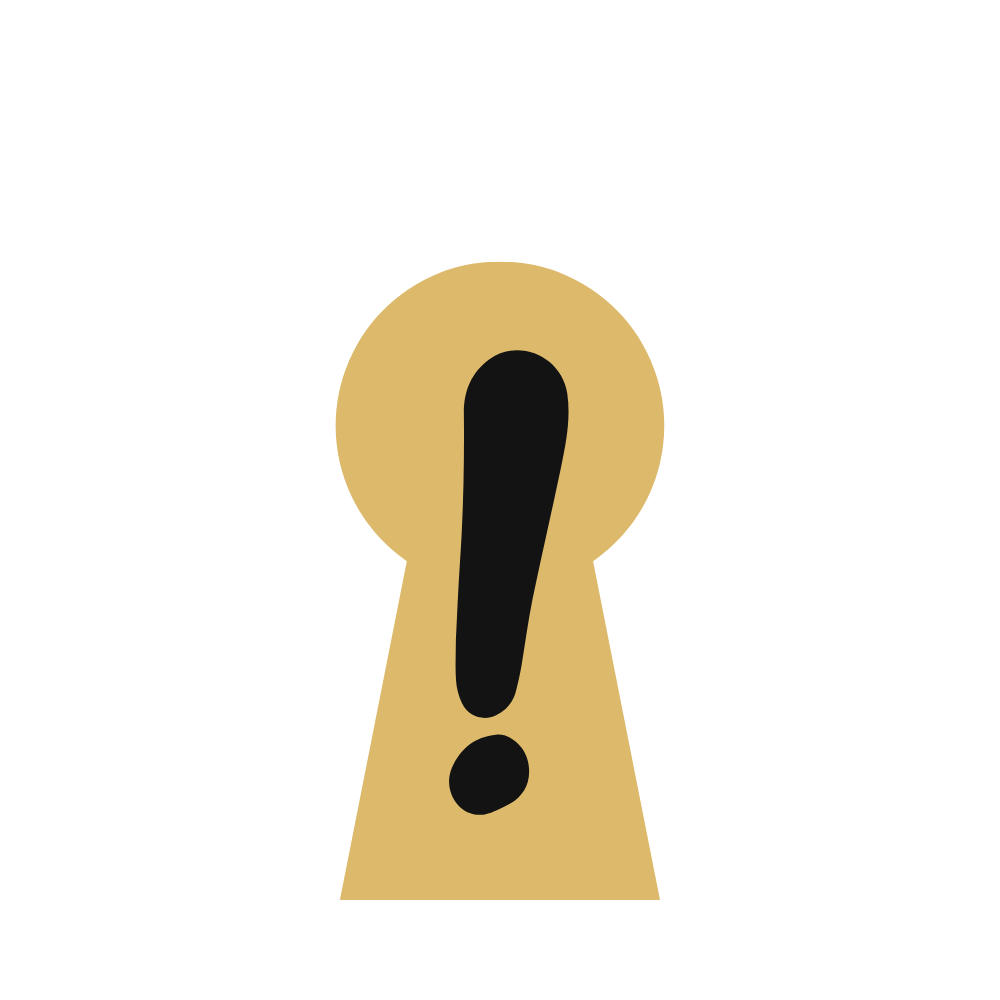
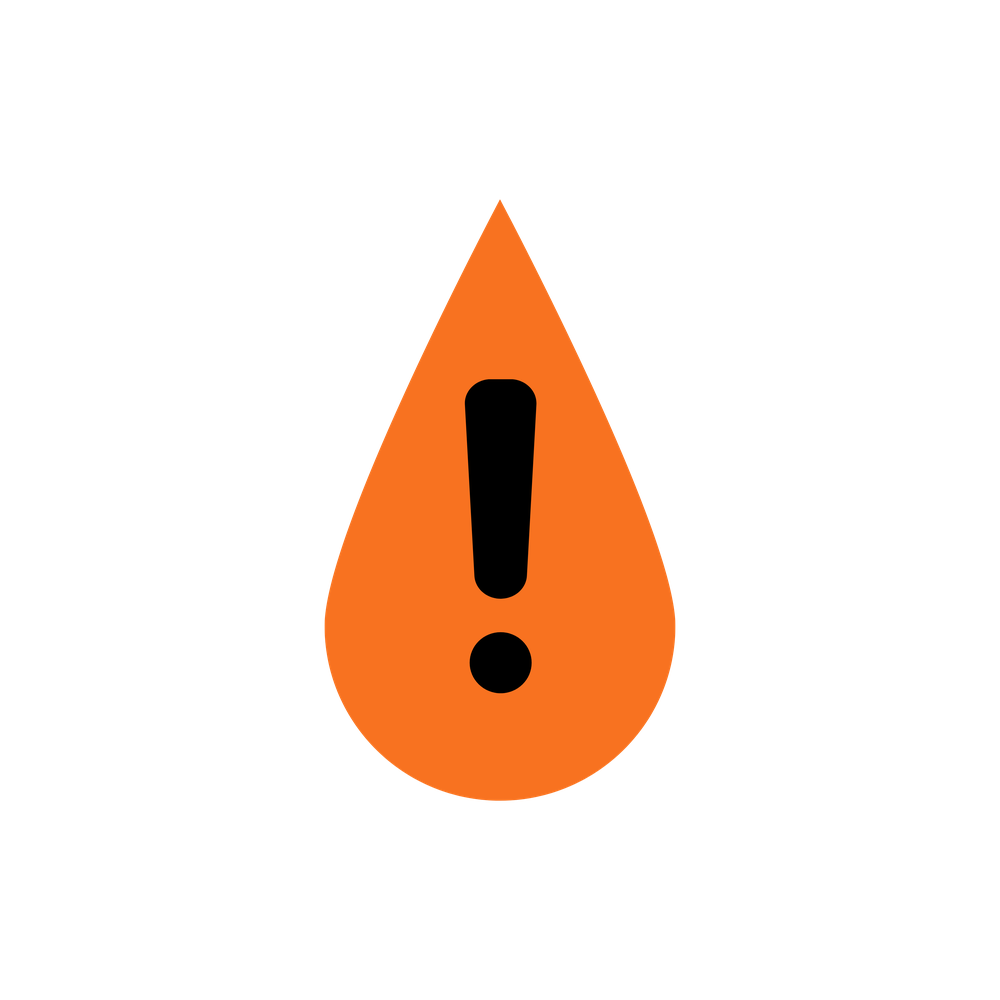
Replace all Grammar Symbol artwork with teacher's new design
Swapped all 9 PNGs in public/literacy/grammar-symbols/ (same filenames,
so no imageUrl changes needed) and re-measured every color pixel-exact
from the new set in montessoriGrammar.ts, the single source of truth
every rendering site (tray, canvas, Symbol Sentences, Sentence Formula
blank coloring, hover tooltip) reads from.

Claude-Session: https://claude.ai/code/session_01XSgnR3ix26uWZTtb28RFWN

Changed region(s): [[0.31, 0.186, 0.682, 0.899]]

diff --git a/src/lib/montessoriGrammar.ts b/src/lib/montessoriGrammar.ts
@@ -2,18 +2,19 @@
 // reference images: a decision-tree sentence builder using the real
 // Montessori grammar-symbol shapes/colors (already read from her own
 // reference sheets and logged in docs/DEVELOPMENT_PLAN.md's Literacy
-// Workspace section — black triangle=noun, small blue triangle=article,
-// dark blue triangle=adjective, red circle=verb, green crescent=
-// preposition, orange circle=adverb, purple triangle=pronoun, pink
-// rectangle=conjunction, gold cone=interjection). Her own words: "the
-// words selected in the beginning of the sentence dictate the next
-// words, so that a word can always be added but that it will always
-// make a real, correct sentence in English." This is a real, separate
-// word-class system from GrammarWordClass in types.ts (which only ever
-// covers the original 2-class noun/verb snap-together tiles) — reusing
-// that type here would either narrow this builder to 2 classes or widen
-// the existing shipped mechanic's type by accident. Kept independent on
-// purpose.
+// Workspace section). This is a real, separate word-class system from
+// GrammarWordClass in types.ts (which only ever covers the original
+// 2-class noun/verb snap-together tiles) — reusing that type here would
+// either narrow this builder to 2 classes or widen the existing shipped
+// mechanic's type by accident. Kept independent on purpose.
+//
+// Symbol set updated (2026-09-25, teacher upload "Grammar_Symbols.zip",
+// full replacement of the prior artwork): red triangle=noun, pink small
+// triangle=article, light blue triangle=adjective, green circle=verb,
+// brown crescent=preposition, dark blue small circle=adverb, yellow
+// inverted triangle=pronoun, purple double-arrow+chain=conjunction,
+// orange teardrop=interjection. Colors re-measured pixel-exact from the
+// new PNGs.
 //
 // Content only, ordinary uncontroversial grammar (articles, common verbs,
 // prepositions...), ordinary vocabulary drawn from Kayden's own Sentence
@@ -25,7 +26,7 @@ export type MontessoriWordClass =
   | 'interjection' | 'article' | 'adjective' | 'noun' | 'pronoun'
   | 'verb' | 'adverb' | 'preposition' | 'conjunction';
 
-export type PuzzleShape = 'triangle-lg' | 'triangle-sm' | 'triangle-md' | 'circle-lg' | 'circle-sm' | 'crescent' | 'rectangle' | 'cone';
+export type PuzzleShape = 'triangle-lg' | 'triangle-sm' | 'triangle-md' | 'triangle-inverted' | 'circle-lg' | 'circle-sm' | 'crescent' | 'double-arrow' | 'droplet';
 
 export interface WordClassInfo {
   shape: PuzzleShape;
@@ -43,15 +44,15 @@ export interface WordClassInfo {
 // Real Montessori shape/color convention — colors/artwork sourced
 // directly from the teacher's own designed symbol files.
 export const MONTESSORI_WORD_CLASS_INFO: Record<MontessoriWordClass, WordClassInfo> = {
-  noun: { shape: 'triangle-lg', color: '#000000', name: 'Noun', label: 'Person, place, thing, or animal (something you can touch)', imageUrl: '/literacy/grammar-symbols/noun.png' },
-  article: { shape: 'triangle-sm', color: '#5ce1e6', name: 'Article', label: 'Refers to nouns (a, an, the)', imageUrl: '/literacy/grammar-symbols/article.png' },
-  adjective: { shape: 'triangle-md', color: '#004aad', name: 'Adjective', label: 'Describes nouns (details for things you can touch)', imageUrl: '/literacy/grammar-symbols/adjective.png' },
-  verb: { shape: 'circle-lg', color: '#fd4636', name: 'Verb', label: 'Action word', imageUrl: '/literacy/grammar-symbols/verb.png' },
-  preposition: { shape: 'crescent', color: '#7ed957', name: 'Preposition', label: 'Identifies time, place, or direction', imageUrl: '/literacy/grammar-symbols/preposition.png' },
-  adverb: { shape: 'circle-sm', color: '#ffbd59', name: 'Adverb', label: 'Describes verbs (details for things you can do)', imageUrl: '/literacy/grammar-symbols/adverb.png' },
-  pronoun: { shape: 'triangle-lg', color: '#8c52ff', name: 'Pronoun', label: 'Replaces a noun', imageUrl: '/literacy/grammar-symbols/pronoun.png' },
-  conjunction: { shape: 'rectangle', color: '#ff66c4', name: 'Conjunction', label: 'Connecting words', imageUrl: '/literacy/grammar-symbols/conjunction.png' },
-  interjection: { shape: 'cone', color: '#dcb96b', name: 'Interjection', label: 'Something you shout; interrupting words or phrases', imageUrl: '/literacy/grammar-symbols/interjection.png' },
+  noun: { shape: 'triangle-lg', color: '#D2222E', name: 'Noun', label: 'Person, place, thing, or animal (something you can touch)', imageUrl: '/literacy/grammar-symbols/noun.png' },
+  article: { shape: 'triangle-sm', color: '#F7B3CF', name: 'Article', label: 'Refers to nouns (a, an, the)', imageUrl: '/literacy/grammar-symbols/article.png' },
+  adjective: { shape: 'triangle-md', color: '#4BB8E6', name: 'Adjective', label: 'Describes nouns (details for things you can touch)', imageUrl: '/literacy/grammar-symbols/adjective.png' },
+  verb: { shape: 'circle-lg', color: '#42AC74', name: 'Verb', label: 'Action word', imageUrl: '/literacy/grammar-symbols/verb.png' },
+  preposition: { shape: 'crescent', color: '#723C19', name: 'Preposition', label: 'Identifies time, place, or direction', imageUrl: '/literacy/grammar-symbols/preposition.png' },
+  adverb: { shape: 'circle-sm', color: '#1968AB', name: 'Adverb', label: 'Describes verbs (details for things you can do)', imageUrl: '/literacy/grammar-symbols/adverb.png' },
+  pronoun: { shape: 'triangle-inverted', color: '#FAF003', name: 'Pronoun', label: 'Replaces a noun', imageUrl: '/literacy/grammar-symbols/pronoun.png' },
+  conjunction: { shape: 'double-arrow', color: '#9877B9', name: 'Conjunction', label: 'Connecting words', imageUrl: '/literacy/grammar-symbols/conjunction.png' },
+  interjection: { shape: 'droplet', color: '#F87220', name: 'Interjection', label: 'Something you shout; interrupting words or phrases', imageUrl: '/literacy/grammar-symbols/interjection.png' },
 };
 
 export interface WordOption {

diff --git a/src/lib/changelog.ts b/src/lib/changelog.ts
@@ -16,6 +16,13 @@ export interface ChangelogEntry {
 
 export const CHANGELOG_ENTRIES: ChangelogEntry[] = [
   {
+    id: '2026-09-25-lm-new-symbols',
+    date: '2026-09-25',
+    icon: '🔺',
+    title: 'Brand new Grammar Symbols look',
+    body: 'Grammar Symbols got a whole new set of pictures and colors! Noun is a red triangle now, verb is a green circle, pronoun is a yellow upside-down triangle, and more. The new look shows up everywhere symbols do, including Symbol Sentences.',
+  },
+  {
     id: '2026-09-24-lm-keyboard-delete',
     date: '2026-09-24',
     icon: '⌫',

diff --git a/docs/DEVELOPMENT_PLAN.md b/docs/DEVELOPMENT_PLAN.md
@@ -231,6 +231,8 @@ Every full pass through a quiz (every question answered correctly at least once)
 
 **Backspace/Delete key deletes the selected object — SHIPPED (2026-09-24), direct teacher instruction: "if an object is selected and backspace or delete is clicked, delete the object."** A `window` `keydown` listener checks `selectedId` (the same single-selection state the ✕ badge already uses) and removes that item on Backspace or Delete — but only when focus isn't inside an `<input>`/`<textarea>`/contentEditable element, so Backspace still just erases a character while typing in a Text Box, a Sentence Formula blank, or a settings text field.
 
+**Grammar Symbol artwork fully replaced — SHIPPED (2026-09-25), direct teacher upload ("Grammar_Symbols.zip"), "update the grammar symbols (in all places including the sentences)".** A full swap of the teacher's own designed symbol set, replacing every prior PNG in `public/literacy/grammar-symbols/` (same 9 filenames, so `MONTESSORI_WORD_CLASS_INFO.imageUrl` paths didn't need to change) and re-measuring every color pixel-exact from the new artwork: noun red triangle #D2222E (was black), article pink small triangle #F7B3CF (was cyan), adjective light blue triangle #4BB8E6 (was dark blue), verb green circle #42AC74 (was coral-red), preposition brown crescent #723C19 (was green), adverb dark blue small circle #1968AB (was orange), pronoun yellow inverted triangle #FAF003 (was purple triangle), conjunction purple double-arrow+chain #9877B9 (was pink rectangle), interjection orange teardrop #F87220 (was gold keyhole). Because `MONTESSORI_WORD_CLASS_INFO` is the single source of truth every rendering site reads from (`ItemVisual`'s shape branch, the sidebar tray, Symbol Sentences' preview icons and placed-on-board rendering, the Sentence Formula blank color-coding via `SLOT_MONTESSORI_CLASS`, the hover tooltip), "in all places including the sentences" was satisfied by touching exactly one data file plus the 9 replaced PNGs — no component code changed. `PuzzleShape`'s type (dead code, nothing renders from it — confirmed by search) was also updated to name the new shapes accurately (`triangle-inverted`, `double-arrow`, `droplet` replacing the old `rectangle`/`cone`) for anyone who revives it later.
+
 #### A23-ROADMAP. Literacy Manipulative Platform — Build Spec gap analysis + phased plan (2026-09-24)
 
 Teacher-authored 14-page spec ("Literacy Manipulative Platform — Build Spec," Sep 24 2026) proposing a much larger platform: Universal Tile object model, TTS with synced word highlighting (her own explicit top priority), a formal color/symbol design-tokens file, punctuation tiles, a Sentence Formula ladder with job-slot dual-lens tiles, scaffolded writing supports, an embedded reference popover, a full voice-input system (guided capture + Edit Mode dictation + listening cues + grammar-safe dice), a phonological/phonemic awareness module, a deeper morphology module (word sums/matrix/webs/join-rule animation), teacher tools (lesson builder, analytics, print/projector modes), and a unified whiteboard+word-processor workspace. Dispatched Claudia (design-review agent) to reconcile it against the shipped sandbox before any of it gets built. Full per-section gap analysis and file citations are in that review; this entry is the actionable summary.
